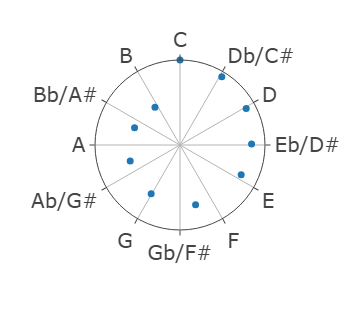
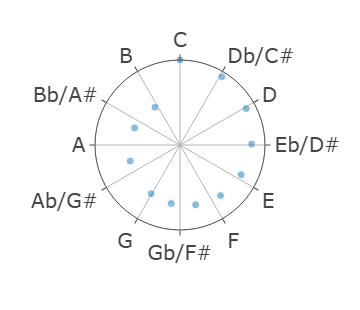
Update figures and README

diff --git a/README.md b/README.md
@@ -35,19 +35,23 @@ fig.show()
 
 
 ### Music and Geometry
-Each tone may be represented as a point on a logarithmic spiral, with its radius
-scaling with wavelength (higher tones closer to the center), and its angle
-scaling with its progress around the full octave (semitone raises in pitch are
-30 deg clockwise rotations).
+Each tone may be represented as a point on a logarithmic spiral. Radius scales
+with wavelength: higher tones are closer to the center. And angle scales with
+the octave disance from key center: semitone increases in pitch correspond to
+30 deg clockwise rotations.
 
 For example, three octaves of the equal-tempered chromatic scale in C:
 
 ![log spiral chromatic C](https://raw.githubusercontent.com/mbdeaton/semitone/refs/heads/main/img/chrom_c.png)
 
-And a just-tempered scale using the first 19 harmonics compressed to a single
+And a just-tempered scale using the first 23 harmonics compressed to a single
 octave in C (redundant tones of the same pitch class are eliminated):
 
-![log spiral harmonic-19 C](https://raw.githubusercontent.com/mbdeaton/semitone/refs/heads/main/img/harm_c.png)
+![log spiral harmonic-23 C](https://raw.githubusercontent.com/mbdeaton/semitone/refs/heads/main/img/harm_c.png)
+
+And an overlay of the C major scale with the D minor scale:
+
+![log spiral major C and minor D](https://raw.githubusercontent.com/mbdeaton/semitone/refs/heads/main/img/maj_c_min_d.png)
 
 
 ### Contributing
